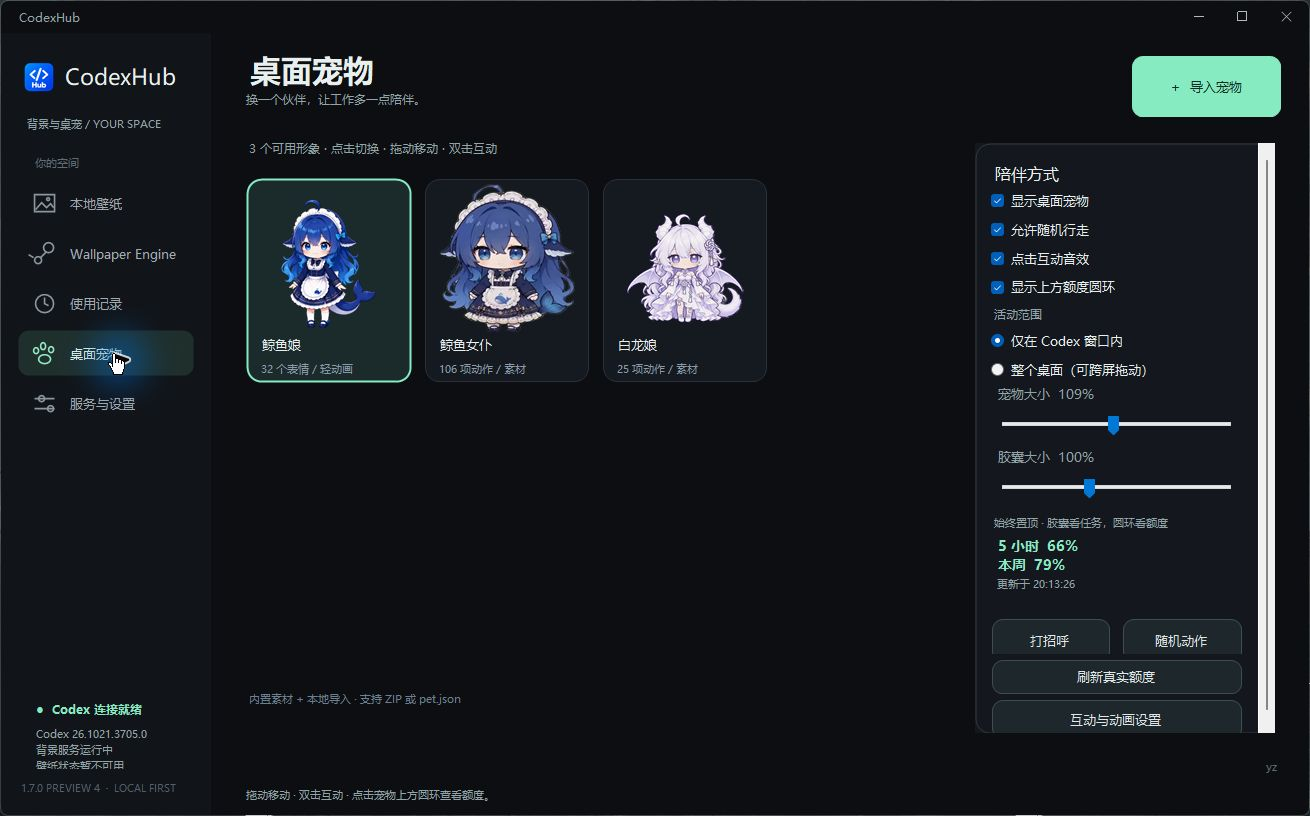
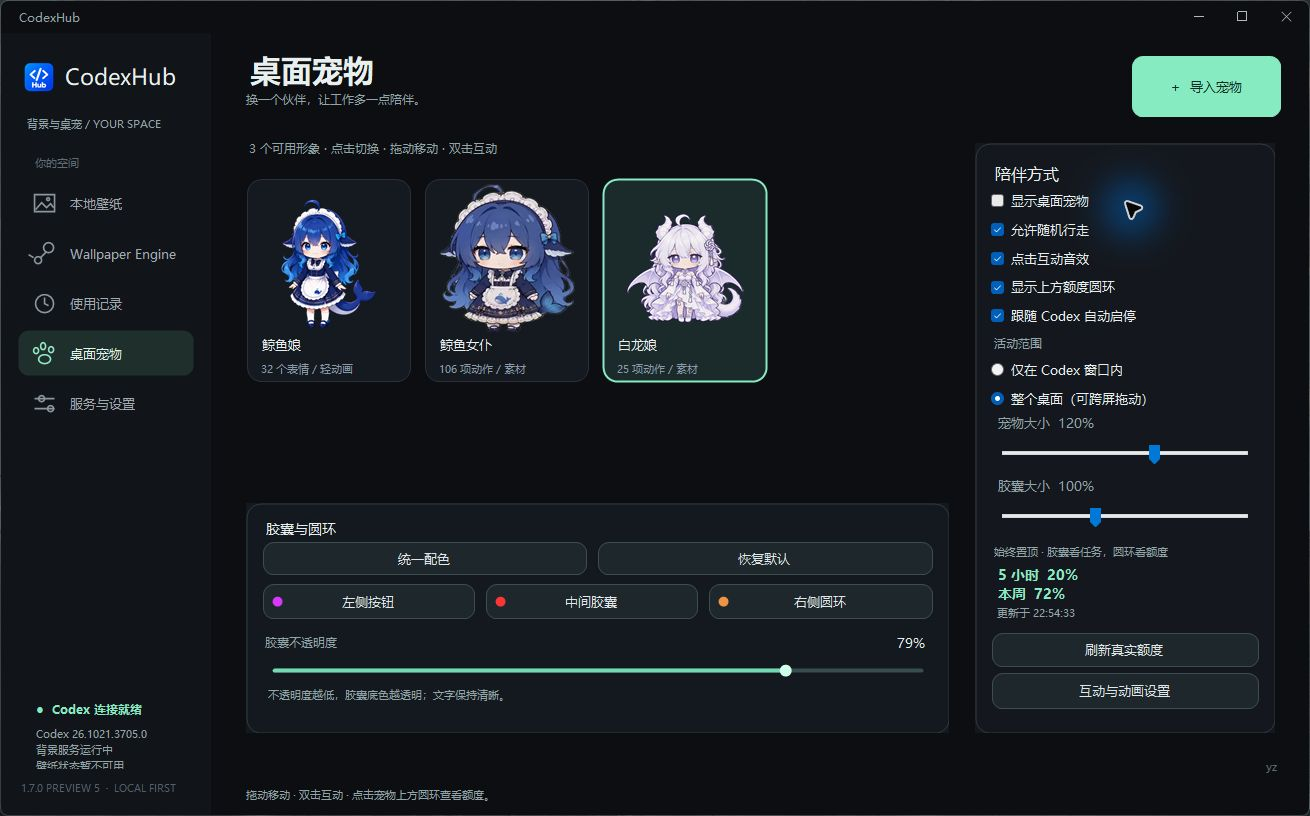
docs: show preview 5 appearance controls and verified release status

diff --git a/docs/release-1.7.0-preview.5.md b/docs/release-1.7.0-preview.5.md
@@ -1,0 +1,27 @@
+# CodexHub 1.7.0-preview.5
+
+内部程序版本 1.7.0.7，功能分支 feature/pet-companion。稳定版 latest 保持 v1.5.4.5。发布前追加三处配色修复，因此递增内部构建号，确保本机候选 1.7.0.5 可以接收更新；对外仍为尚未发布的 preview.5。
+
+## 更新内容
+
+- 桌面宠物增加默认关闭的“跟随 Codex 自动启停”。最小化、隐藏、退出时正常关闭管理器与宠物，恢复或打开时在托盘启动，不弹出主窗口。失去焦点不退出；任一官方稳定版或 Beta 窗口可见就继续运行。
+- 复用已有更新组件的轻量检测模式，不新增 EXE 或桌面图标。手动退出后的暂停有确认握手，下一轮 Codex 隐藏再恢复时重新启动。导入、更新、颜色／文件选择器和设置对话框打开时等待完成，手动打开软件可修改设置。
+- 移除管理器中的“打招呼”和“随机动作”，保留宠物点击和右键动作；额度刷新和互动设置上移。
+- 宠物列表下方可一键统一左侧按钮、中间胶囊和右侧圆环颜色，也可分别选择。修复左侧按钮不跟随改色的问题；已有设置自动继承原圆环颜色。
+- 胶囊不透明度使用 0～100% 滑条，实时预览、松手保存，避免拖动中反复写盘。降低不透明度只改变底色，文字保持清晰。文字略微放大，100% 仍完整居中。
+- README 增加原生 SVG 版本、Windows、EXE 大小、MIT 徽章和直接下载按钮，更新宠物页面截图。
+
+## 验证
+
+- 跟随启停与外观：64 项检查通过，包括旧设置兼容与颜色迁移、首次手动配置、正常退出、导入保护、原生模态窗口保护、手动退出确认、统一三处配色、分别改色的像素对照、透明度滑条和圆环字号边界。新增配色区检查先复现“统一配色”按钮越界，再验证控件不越界、不重叠并留有间距；未重复旧的管理器缩放测试。
+- 启动登记与卸载：10 项隔离检查通过，覆盖自有登记移除、外来登记保留、禁用不启动、启用时隐藏启动、升级与卸载顺序。
+- 导入与程序更新：32 项通过，350 条批量导入入口约 1 ms 返回，测试界面心跳最大间隔 28 ms；素材、配置、服务、运行时隔离与失败回滚通过。
+- EXE 原生生命周期：12 项隔离检查通过，覆盖自选目录、升级、失败重试、独立卸载入口、缓存清理及原壁纸和登录资料保留。原生更新宿主成功升级隔离安装至 1.7.0.7，恢复启动参数，个人配置字节保持。
+- 本机 D:\\codex 已更新至 1.7.0.7，247 个素材、运行时和服务文件哈希保持，壁纸记录保持，Codex 与原服务进程没有重启。更新期间用户主动调整了颜色、透明度、宠物与大小，因此本机配置前后比较不能当作字节保持证明；隔离更新测试提供该项证明。实际截图完成后检查，临时隐藏的宠物已恢复，用户最新设置保持。
+- 本地壁纸、Wallpaper Engine、宠物设置和服务设置四张截图均来自实际 1.7.0.7 窗口，显示新版配色区、滑条、启停开关及更新按钮。
+- 上一版的动画功能断言保持通过。原有严格时序门槛在本机负载下出现偶发超时；未修改门槛。对同一媒体进行旧版／候选版对照，切换心跳最大间隔 160／146 ms，恢复平均时间 155.3／151.7 ms；旧版 3 次恢复中 2 次超过 150 ms，候选版 1 次。对照未显示明确回归，不将其描述为所有时序检查通过。
+- 不操作实际 Codex 窗口的最小化、退出或登录资料；原有管理器缩放测试未重复。
+
+记录：tests/output/follow-4795c410c22e4a12b51444c5b93e5462/result.json、tests/output/follow-registration-e5c65044b813413e8121ae5507327f49/result.json、tests/output/import-update-c8ffc4edf8084c7ab93742f3c7e92f69/result.json。程序更新与最终安装包的校验值见发行附件。
+
+素材与个人设置沿用既有资料，106 段鲸鱼女仆动画继续随包提供，雨樱完整原片按需从 preview.4 附件复用。新版本不覆盖已有发布标签。

diff --git a/README.md b/README.md
@@ -2,9 +2,20 @@
 
 <p align="center"><img src="docs/screenshots/wallpapers.png" alt="CodexHub 本地壁纸与预览" width="100%"></p>
 
+<p align="center">
+  <a href="https://github.com/chenyan-image/codex-live-background/releases/tag/v1.7.0-preview.5"><img src="docs/badges/version.svg" alt="预览版 v1.7.0-preview.5"></a>
+  <a href="https://github.com/chenyan-image/codex-live-background/releases/download/v1.7.0-preview.5/CodexHub-1.7.0-preview.5-Setup.exe"><img src="docs/badges/download-size.svg" alt="EXE 安装包约 165 MiB"></a>
+  <a href="#安装更新与后台运行"><img src="docs/badges/platform.svg" alt="Windows 10 / 11 x64"></a>
+  <a href="LICENSE"><img src="docs/badges/license.svg" alt="MIT License"></a>
+</p>
+
 让 Codex 换上喜欢的风景，也有一个会动的小伙伴。动态背景、桌面宠物、任务和额度卡片，都放在一个 Windows 软件里。
 
-**[下载功能预览版](https://github.com/chenyan-image/codex-live-background/releases/tag/v1.7.0-preview.4) · [稳定版](https://github.com/chenyan-image/codex-live-background/releases/latest) · [更新记录](CHANGELOG.md)**
+<p align="center">
+  <a href="https://github.com/chenyan-image/codex-live-background/releases/download/v1.7.0-preview.5/CodexHub-1.7.0-preview.5-Setup.exe"><img src="docs/badges/download-exe.svg" alt="下载 Windows EXE 安装包 · v1.7.0-preview.5" width="238" height="48"></a>
+</p>
+
+**[预览版详情](https://github.com/chenyan-image/codex-live-background/releases/tag/v1.7.0-preview.5) · [稳定版](https://github.com/chenyan-image/codex-live-background/releases/latest) · [更新记录](CHANGELOG.md)**
 
 ## 壁纸与背景
 
@@ -19,7 +30,7 @@
 
 ## 桌面宠物
 
-<p align="center"><img src="docs/screenshots/pets.png" alt="三个宠物与独立大小设置" width="100%"></p>
+<p align="center"><img src="docs/screenshots/pets.png" alt="三个宠物、自动启停与胶囊配色设置" width="100%"></p>
 
 | 鲸鱼娘 | 鲸鱼女仆 | 白龙娘 |
 | :---: | :---: | :---: |
@@ -27,14 +38,16 @@
 
 - 拖动、惯性滑行、随机行走、碰撞反馈，右键可选择各自的动作。
 - 活动范围可设为 Codex 内或整个桌面。只有手动跨屏拖动才换屏，自主运动在当前屏幕内回弹。
+- 可按需开启“跟随 Codex 自动启停”，默认关闭：Codex 最小化、隐藏或关闭时同步退出，打开或恢复可见时自动从托盘启动；仅切换焦点时宠物继续陪伴。
 - 任务开始进入工作，结束播放完成动作；空闲动作轮换，长时间无任务只进入一次休息。碎碎念已取消。
 - 点击胶囊看当前任务，点击圆环看剩余额度、重置时间与 Token 曲线。卡片平滑展开，跟随宠物继续移动。
+- “统一配色”一次更改左侧 Hub 按钮、中间胶囊和右侧圆环，也可分别选色；胶囊不透明度用 0%～100% 滑条调节并实时预览，文字保持清晰，字号略微加大。
 - 宠物与胶囊分别调节，范围均为 70%～150%。鲸鱼女仆新 100% 对应此前 80% 的实际大小，胶囊比例独立。
 - 鲸鱼女仆的没钱系列仅在真实剩余额度低于 10% 时自动随机播放。
 
 ## 安装、更新与后台运行
 
-1. 下载 `CodexHub-1.7.0-preview.4-Setup.exe`，选择安装目录，无需解压。
+1. [下载 `CodexHub-1.7.0-preview.5-Setup.exe`](https://github.com/chenyan-image/codex-live-background/releases/download/v1.7.0-preview.5/CodexHub-1.7.0-preview.5-Setup.exe)，选择安装目录，无需解压。
 2. 选择或导入壁纸，预览后点击应用；按需启用桌面宠物。
 3. 在 **服务与设置 → 更新软件** 获取 GitHub 程序更新。更新包只替换程序，壁纸、宠物素材、设置和记录保留。
 

diff --git a/CHANGELOG.md b/CHANGELOG.md
@@ -2,6 +2,16 @@
 
 原始项目：[xxloocee/Codex-Dream-Skin-Manager](https://github.com/xxloocee/Codex-Dream-Skin-Manager)。本仓库仅记录基于原项目的 Bug 修复、兼容处理和源码精简；原引擎来自 [Fei-Away/Codex-Dream-Skin](https://github.com/Fei-Away/Codex-Dream-Skin)。
 
+## v1.7.0-preview.5 — 跟随启停与胶囊外观
+
+- 桌面宠物新增默认关闭的“跟随 Codex 自动启停”：最小化、隐藏或退出后正常退出管理器与宠物；打开或恢复 Codex 时在托盘启动。失去焦点不退出，多窗口任一可见即可保持运行。
+- 自动恢复复用已有更新组件的轻量模式，不新增 EXE 或桌面图标。关闭开关、更新和完整卸载会处理对应启动登记与进程。导入、更新、原生选择器及设置对话框不会被自动退出打断。
+- 移除管理器中的“打招呼”和“随机动作”，把“刷新真实额度”和“互动与动画设置”上移；宠物本身的点击和右键动作保留。
+- 宠物列表下方增加“统一配色”，一次更改左侧 Hub 按钮、中间胶囊和右侧圆环，也可分别选色。修复左侧按钮始终白色的问题，旧设置继承已有圆环颜色。
+- 胶囊不透明度改为 0～100% 滑条，实时预览、松手保存。只改变底色，文字保持清晰，字号略微放大，100% 完整居中显示。
+- 配色区标题、统一操作、独立选色和不透明度分行排列，增加留白并修复内层表格按默认按钮高度撑开造成的重叠。
+- README 增加版本、Windows、EXE 大小、许可徽章和直接下载按钮，更新宠物设置截图。
+
 ## v1.7.0-preview.4 — 导入响应与程序更新
 
 - 本地壁纸批量导入移出界面线程，整批只保存一次；素材下载／转换降低优先级，进度提示合并，保持拖动与卡片动画响应。
